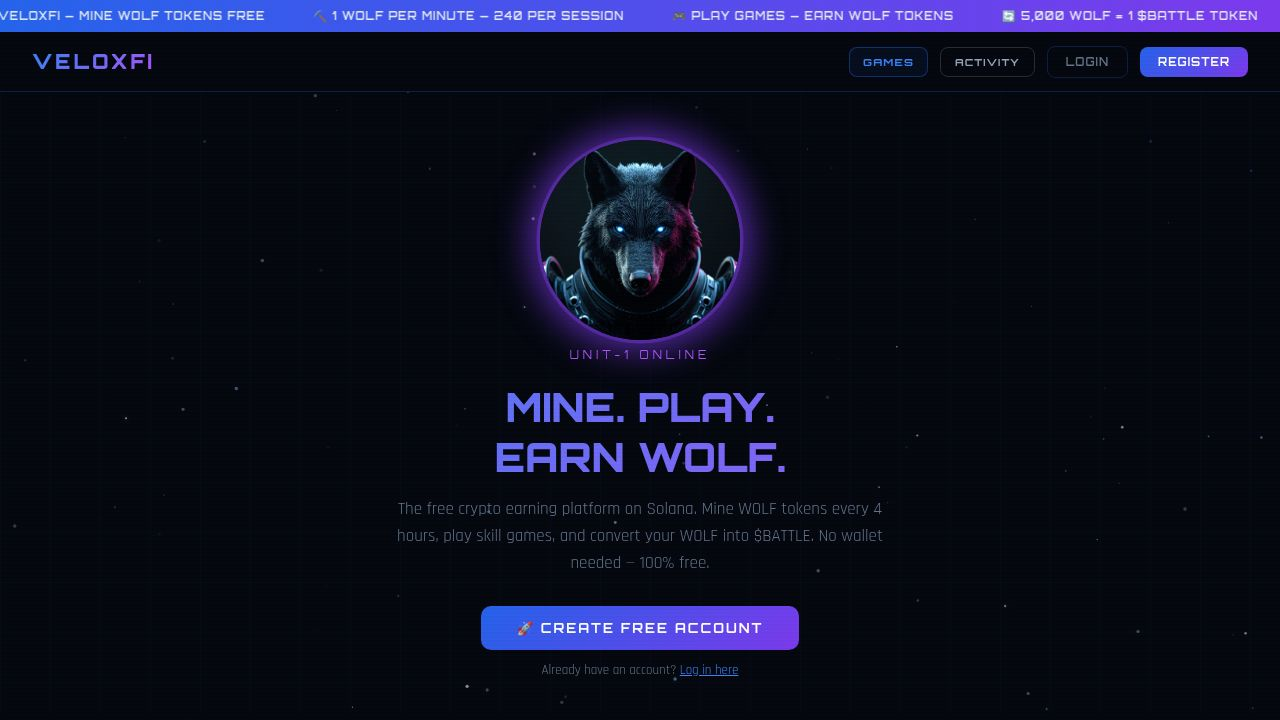
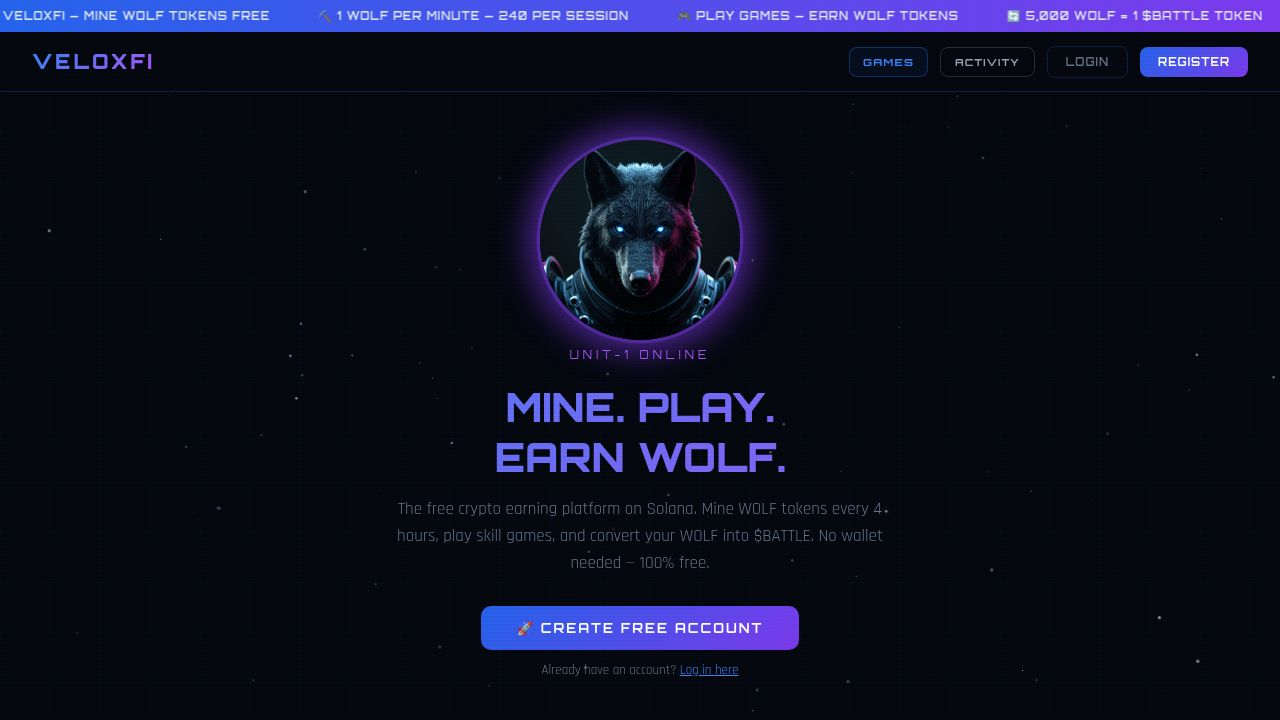
Fix error when claiming wolf to prevent multiple claims and network errors
Correctly calls the `updateNavBalance` function instead of a non-existent `updateNavWolfChip` and adds robust error handling and retry guards to prevent duplicate claims and network errors.

Replit-Commit-Author: Agent
Replit-Commit-Session-Id: 9197b3d8-1940-4419-9024-e914b1135912
Replit-Commit-Checkpoint-Type: full_checkpoint
Replit-Commit-Event-Id: f01f1642-6c26-470b-895b-c53b692c7441
Replit-Commit-Screenshot-Url: https://storage.googleapis.com/screenshot-production-us-central1/6c4c4c1a-6a65-45a2-8588-0d2f4d2c8379/9197b3d8-1940-4419-9024-e914b1135912/8fwlh8J
Replit-Helium-Checkpoint-Created: true

diff --git a/artifacts/veloxfi/index.html b/artifacts/veloxfi/index.html
@@ -4325,15 +4325,24 @@ function rmEndGame(reason) {
 }
 
 async function rmClaimWolf() {
-  if (!currentUser || rmWolfEarned <= 0 || rmClaimed) return;
+  console.log('[rmClaimWolf] called — currentUser:', !!currentUser, '| rmWolfEarned:', rmWolfEarned, '| rmClaimed:', rmClaimed);
+  if (!currentUser || rmWolfEarned <= 0 || rmClaimed) {
+    console.warn('[rmClaimWolf] early-exit guard hit — currentUser:', !!currentUser, 'rmWolfEarned:', rmWolfEarned, 'rmClaimed:', rmClaimed);
+    return;
+  }
   const btn = document.getElementById('rmClaimBtn');
 
   // Guard: ensure we have a valid session token before attempting
   const session = getSession();
+  console.log('[rmClaimWolf] session:', session ? { username: session.username, tokLen: session.tok?.length } : null);
   if (!session?.tok) {
     showToast('Session expired — please log in again.', 'error');
     return;
   }
+
+  const ENDPOINT = '/api/veloxfi/game/rocket-miner/earn';
+  const BODY = JSON.stringify({ wolfEarned: rmWolfEarned });
+  console.log('[rmClaimWolf] POST', ENDPOINT, '| body:', BODY);
 
   const MAX_RETRIES = 3;
   for (let attempt = 1; attempt <= MAX_RETRIES; attempt++) {
@@ -4342,15 +4351,18 @@ async function rmClaimWolf() {
       btn.textContent = attempt === 1 ? 'CLAIMING…' : `RETRYING… (${attempt}/${MAX_RETRIES})`;
     }
     try {
-      const res = await fetch('/api/veloxfi/game/rocket-miner/earn', {
+      const res = await fetch(ENDPOINT, {
         method: 'POST',
         headers: { 'Content-Type': 'application/json', Authorization: `Bearer ${session.tok}` },
-        body: JSON.stringify({ wolfEarned: rmWolfEarned }),
+        body: BODY,
       });
 
-      // 400 = bad request (no wolf earned / invalid amount) — do not retry
+      console.log('[rmClaimWolf] attempt', attempt, '→ HTTP', res.status, res.statusText);
+
+      // 400 = bad request — do not retry
       if (res.status === 400) {
         const data = await res.json().catch(() => ({}));
+        console.warn('[rmClaimWolf] 400 response:', data);
         showToast(data.error || 'Invalid claim amount.', 'error');
         if (btn) { btn.disabled = false; btn.textContent = '🐺 CLAIM WOLF'; }
         return;
@@ -4358,35 +4370,52 @@ async function rmClaimWolf() {
 
       // 401 = session invalid — no point retrying
       if (res.status === 401) {
+        const data = await res.json().catch(() => ({}));
+        console.warn('[rmClaimWolf] 401 response:', data);
         showToast('Session expired — please log in again.', 'error');
         if (btn) { btn.disabled = false; btn.textContent = '🐺 CLAIM WOLF'; }
         return;
       }
 
-      // Server errors (5xx) — allow retry
-      if (!res.ok) throw new Error(`Server error ${res.status}`);
-
-      const data = await res.json();
-      if (data.ok) {
-        rmClaimed = true;
-        if (currentUser) currentUser.wolf = data.newWolfBalance;
-        updateNavWolfChip && updateNavWolfChip();
-        showToast(`+${data.wolfEarned} WOLF claimed! Balance: ${data.newWolfBalance.toLocaleString()} WOLF`, 'success');
-        if (btn) { btn.disabled = true; btn.textContent = '✓ CLAIMED!'; }
-        return; // success — exit
+      // Server errors (5xx) — throw so the retry loop catches it
+      if (!res.ok) {
+        const errText = await res.text().catch(() => '');
+        console.error('[rmClaimWolf] HTTP', res.status, '— body:', errText);
+        throw new Error(`Server error ${res.status}`);
       }
 
-      // Unexpected application error — show and bail
+      const data = await res.json();
+      console.log('[rmClaimWolf] success response:', data);
+      if (data.ok) {
+        // Mark claimed immediately — prevents any retry from re-calling the API
+        rmClaimed = true;
+        // Safe UI updates — errors here must NOT trigger a retry
+        try {
+          if (currentUser) currentUser.wolf = data.newWolfBalance;
+          if (typeof updateNavBalance === 'function') updateNavBalance();
+          showToast(`+${data.wolfEarned} WOLF claimed! Balance: ${data.newWolfBalance.toLocaleString()} WOLF`, 'success');
+          if (btn) { btn.disabled = true; btn.textContent = '✓ CLAIMED!'; }
+        } catch (uiErr) {
+          console.warn('[rmClaimWolf] UI update error (claim still succeeded):', uiErr);
+          showToast(`+${data.wolfEarned} WOLF claimed!`, 'success');
+          if (btn) { btn.disabled = true; btn.textContent = '✓ CLAIMED!'; }
+        }
+        return;
+      }
+
+      // Unexpected application error
+      console.warn('[rmClaimWolf] unexpected data:', data);
       showToast(data.error || 'Claim failed.', 'error');
       if (btn) { btn.disabled = false; btn.textContent = '🐺 CLAIM WOLF'; }
       return;
 
     } catch (err) {
+      console.error('[rmClaimWolf] attempt', attempt, 'caught error:', err);
+      // If claim already succeeded (e.g. UI threw), stop retrying
+      if (rmClaimed) return;
       if (attempt < MAX_RETRIES) {
-        // Exponential back-off: 600ms, 1200ms before next attempt
         await new Promise(r => setTimeout(r, attempt * 600));
       } else {
-        // All retries exhausted
         showToast('Network error after 3 attempts. Check your connection and try again.', 'error');
         if (btn) { btn.disabled = false; btn.textContent = '🐺 CLAIM WOLF'; }
       }

diff --git a/artifacts/api-server/src/routes/veloxfi-auth.ts b/artifacts/api-server/src/routes/veloxfi-auth.ts
@@ -10,10 +10,18 @@ const router = Router();
 
 async function requireAuth(req: Request & { veloxfiUser?: typeof veloxfiUsers.$inferSelect }, res: Response, next: NextFunction) {
   const auth = req.headers.authorization;
-  if (!auth?.startsWith("Bearer ")) { res.status(401).json({ error: "Unauthorized." }); return; }
+  if (!auth?.startsWith("Bearer ")) {
+    console.log(`[requireAuth] FAIL no/bad Authorization header on ${req.method} ${req.path} — got: ${auth ? auth.slice(0,20)+'...' : 'undefined'}`);
+    res.status(401).json({ error: "Unauthorized." }); return;
+  }
   const token = auth.slice(7);
+  console.log(`[requireAuth] ${req.method} ${req.path} — token prefix: ${token.slice(0,8)}... (len ${token.length})`);
   const [user] = await db.select().from(veloxfiUsers).where(eq(veloxfiUsers.sessionToken, token)).limit(1);
-  if (!user) { res.status(401).json({ error: "Invalid or expired session." }); return; }
+  if (!user) {
+    console.log(`[requireAuth] FAIL token not found in DB for ${req.method} ${req.path}`);
+    res.status(401).json({ error: "Invalid or expired session." }); return;
+  }
+  console.log(`[requireAuth] OK user="${user.username}" on ${req.method} ${req.path}`);
   (req as any).veloxfiUser = user;
   next();
 }